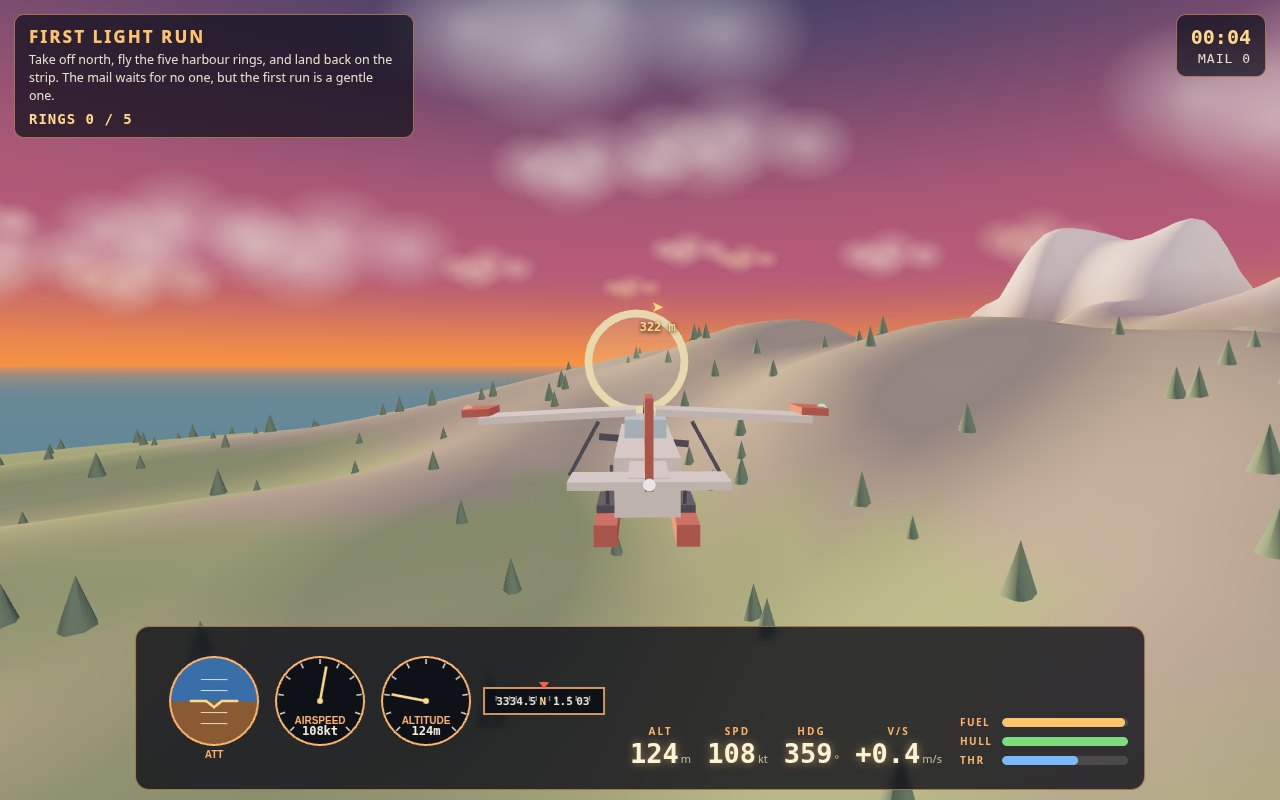
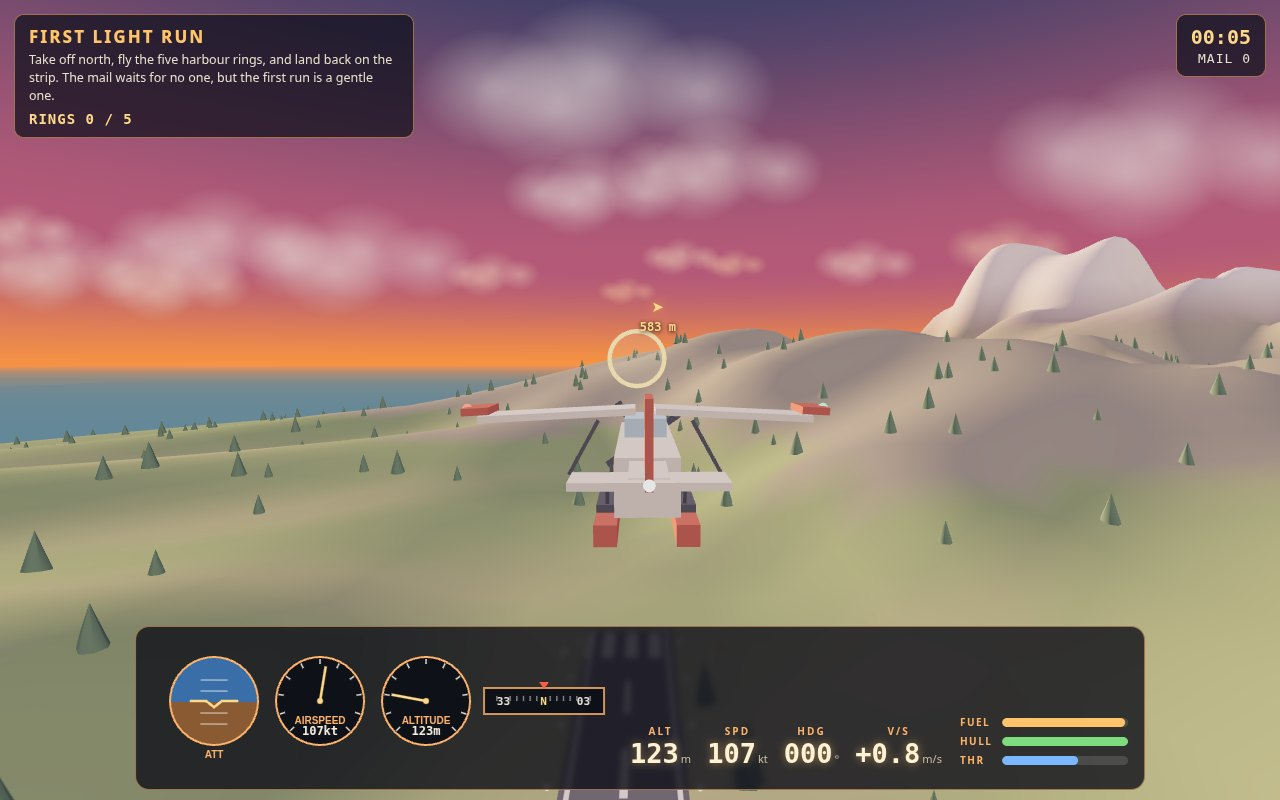
Cover scene restaged south of the strip for the down-the-runway frame

diff --git a/game/src/main.js b/game/src/main.js
@@ -411,7 +411,7 @@ function autopilotInput() {
 
 function stageShotScene(name) {
   const scenes = {
-    cover: { mission: 0, x: -262, y: 112, z: 780, headingDeg: 0, speed: 47, throttle: 0.6 },
+    cover: { mission: 0, x: -260, y: 100, z: 1180, headingDeg: 0, speed: 47, throttle: 0.6 },
     rings: { mission: 2, x: 602, y: 70, z: 430, headingDeg: 350, speed: 52, throttle: 0.64 },
     city: { mission: 1, x: 120, y: 128, z: 640, headingDeg: 74, speed: 54, throttle: 0.66 },
     landing: { mission: 0, x: -258, y: 55, z: 1250, headingDeg: 0, speed: 35, throttle: 0.3 },
